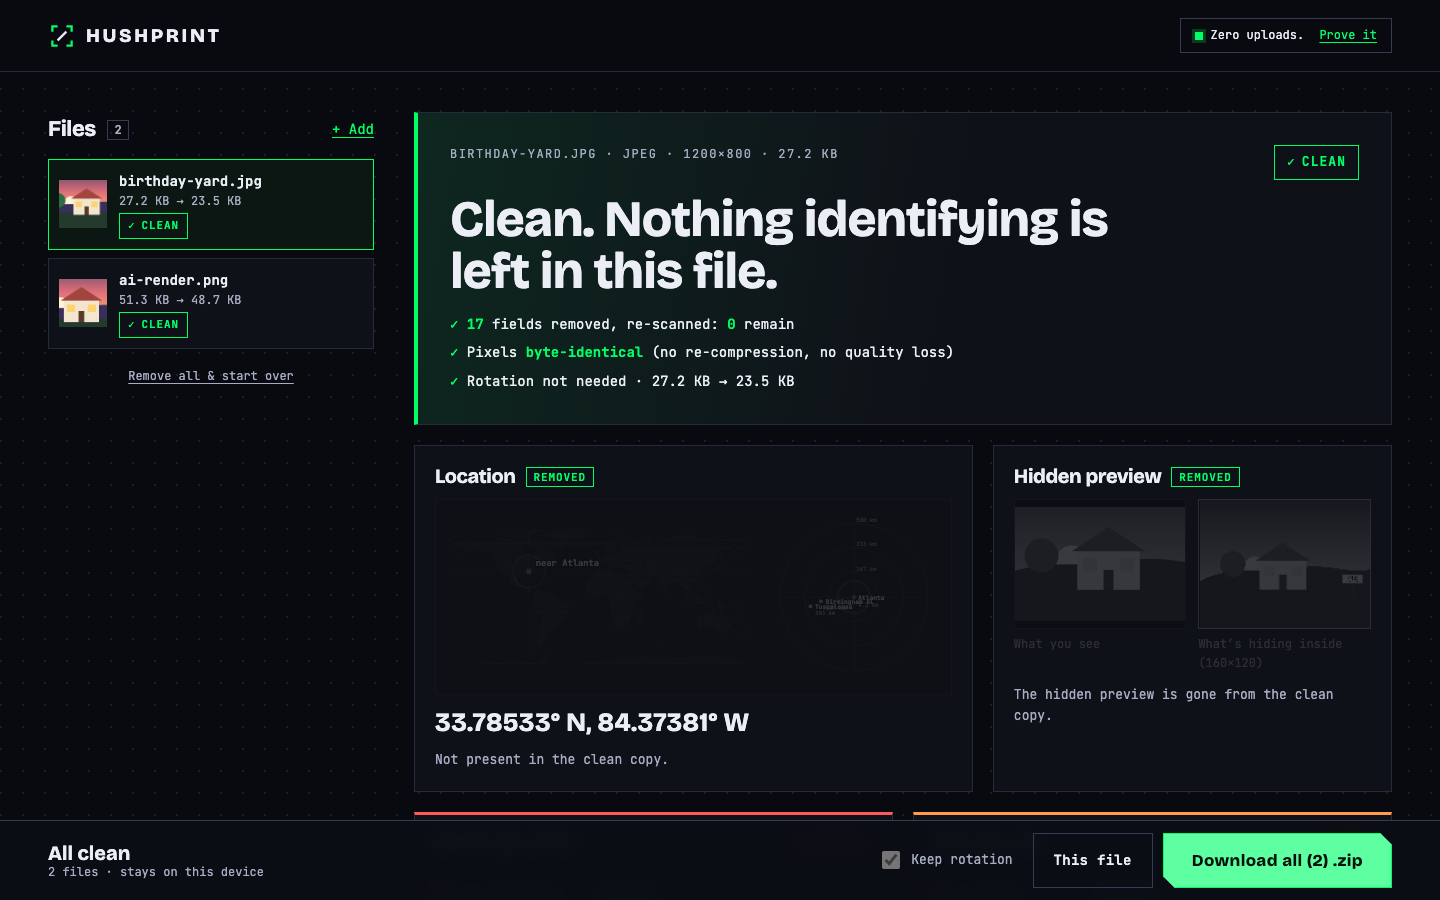
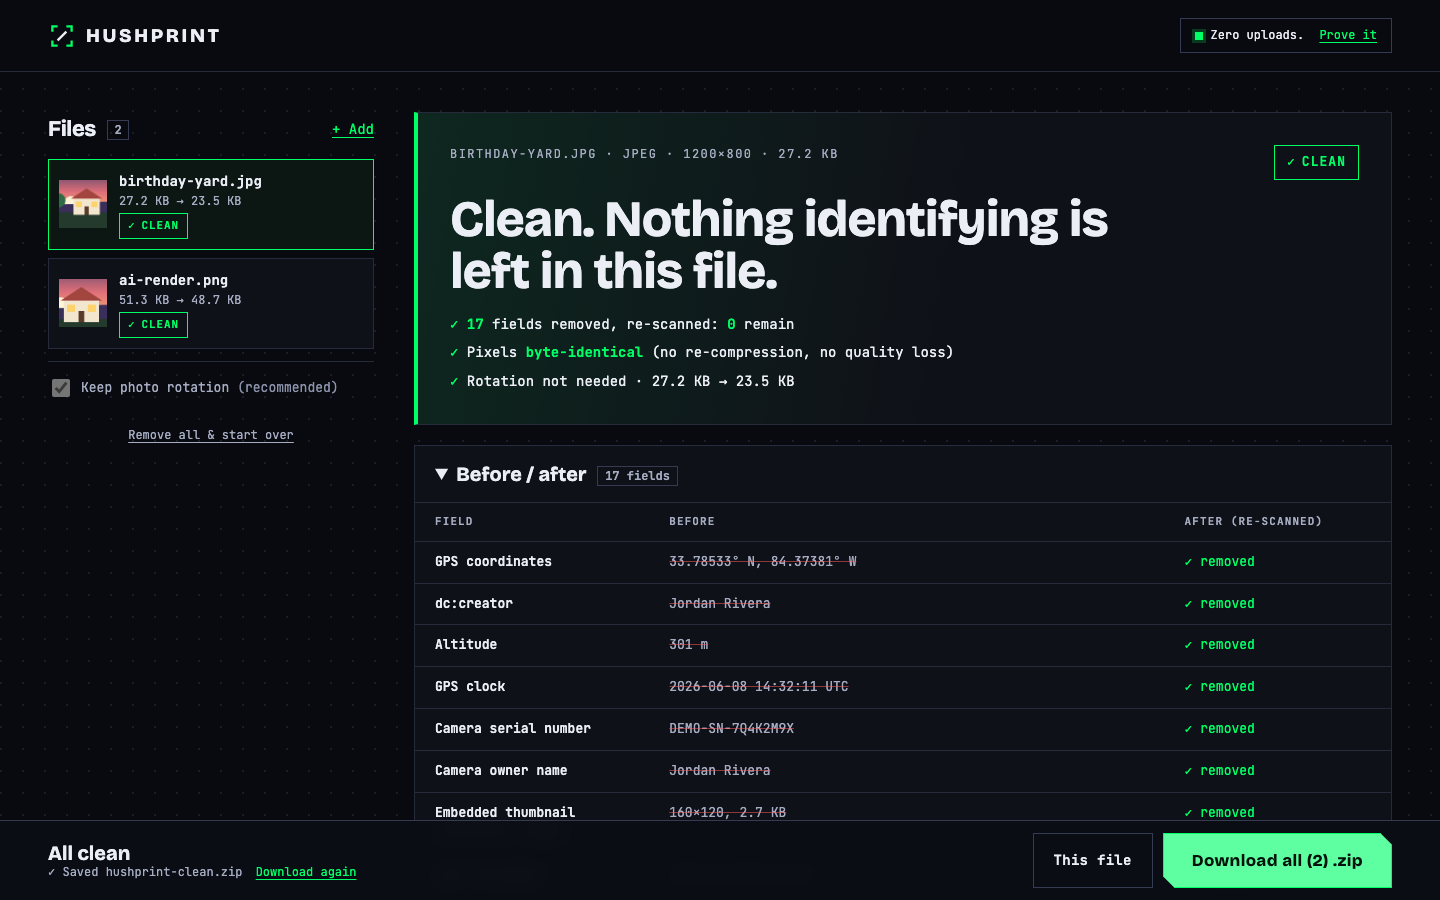
Address critic: fold cleaned state, saved status, mobile action bar, contrast, README restructure

diff --git a/src/App.tsx b/src/App.tsx
@@ -28,6 +28,7 @@ export function App() {
   const [drag, setDrag] = useState(false);
   const [proof, setProof] = useState(false);
   const [announce, setAnnounce] = useState('');
+  const [saved, setSaved] = useState<{ name: string; again: () => void }>();
   const input = useRef<HTMLInputElement>(null);
 
   const addFiles = useCallback(async (files: File[]) => {
@@ -62,8 +63,16 @@ export function App() {
   const cur = items.find((i) => i.id === selected) ?? items[0];
   const totalLeaks = ready.reduce((n, i) => n + i.analysis!.findings.filter((f) => f.label !== 'Orientation').length, 0);
 
-  const download = (i: Item) => i.result && saveBlob(new Blob([i.result.bytes as BlobPart], { type: mimeFor(i.analysis!.format) }), cleanName(i.file.name));
-  const downloadAll = (list: Item[]) => saveBlob(zipFiles(list.filter((i) => i.result).map((i) => ({ name: cleanName(i.file.name), bytes: i.result!.bytes }))), 'hushprint-clean.zip');
+  const download = (i: Item) => {
+    if (!i.result) return;
+    const name = cleanName(i.file.name);
+    const go = () => saveBlob(new Blob([i.result!.bytes as BlobPart], { type: mimeFor(i.analysis!.format) }), name);
+    go(); setSaved({ name, again: go });
+  };
+  const downloadAll = (list: Item[]) => {
+    const go = () => saveBlob(zipFiles(list.filter((i) => i.result).map((i) => ({ name: cleanName(i.file.name), bytes: i.result!.bytes }))), 'hushprint-clean.zip');
+    go(); setSaved({ name: 'hushprint-clean.zip', again: go });
+  };
 
   const runClean = async () => {
     setBusy(true);
@@ -92,7 +101,7 @@ export function App() {
           <div className="workspace">
             <aside className="rail" aria-label="Files">
               <div className="rail-head">
-                <h2>Files <span className="count">{items.length}</span></h2>
+                <h2>Files <span className="count">{items.length}</span>{items.length > 1 && <span className="swipe">swipe {'\u2192'}</span>}</h2>
                 <button className="link" onClick={() => input.current?.click()}>+ Add</button>
               </div>
               <ul className="files">
@@ -110,6 +119,9 @@ export function App() {
                   </li>
                 ))}
               </ul>
+              <div className="settings">
+                <label className="check"><input type="checkbox" checked={keepRotation} disabled={allCleaned} onChange={(e) => setKeepRotation(e.target.checked)} /> Keep photo rotation <span className="hint">(recommended)</span></label>
+              </div>
               <button className="link subtle" onClick={reset}>Remove all &amp; start over</button>
             </aside>
             <section className="report" aria-label="Report" key={cur?.id}>
@@ -124,9 +136,10 @@ export function App() {
           <div className="ab-inner">
             <div className="ab-info">
               <strong>{allCleaned ? 'All clean' : `${totalLeaks} leak${totalLeaks === 1 ? '' : 's'} found`}</strong>
-              <span>{ready.length} file{ready.length === 1 ? '' : 's'} {'·'} stays on this device</span>
+{allCleaned && saved
+                ? <span className="saved"><span aria-hidden="true">{'\u2713'}</span> Saved<span className="sname"> {saved.name}</span> <button className="link inline" onClick={saved.again}>Download again</button></span>
+                : <span>{ready.length} file{ready.length === 1 ? '' : 's'} stays on this device</span>}
             </div>
-            <label className="check"><input type="checkbox" checked={keepRotation} disabled={allCleaned} onChange={(e) => setKeepRotation(e.target.checked)} /> Keep rotation</label>
             {allCleaned ? (
               <div className="ab-btns">
                 {cur?.result && ready.length > 1 && <button className="btn ghost" onClick={() => download(cur)}>This file</button>}
@@ -203,9 +216,12 @@ function Empty({ onPick, onSample }: { onPick: () => void; onSample: () => void 
 
 function Report({ item }: { item: Item }) {
   const a = item.analysis;
+  const done = !!item.result;
+  // play the scrub animation, then fold the per-category detail away so the clean state stays short
+  const [folded, setFolded] = useState(done);
+  useEffect(() => { if (!done) return; const t = setTimeout(() => setFolded(true), 1900); return () => clearTimeout(t); }, [done]);
   if (item.error) return <div className="verdict sev-bg-high"><p className="eyebrow">{item.file.name}</p><h2>We couldn&rsquo;t scan this file.</h2><p className="lede">{item.error}</p></div>;
   if (!a) return <div className="verdict"><p className="eyebrow">{item.file.name}</p><h2>Scanning&hellip;</h2></div>;
-  const done = !!item.result;
   const leaks = a.findings.filter((f) => f.label !== 'Orientation');
   const counts = (['critical', 'high', 'medium', 'low'] as Severity[]).map((s) => [s, leaks.filter((f) => f.severity === s).length] as const).filter(([, n]) => n);
   const groups = (Object.keys(CATEGORY_TITLE) as Category[])
@@ -228,7 +244,7 @@ function Report({ item }: { item: Item }) {
         {a.warnings.length > 0 && <p className="warn">{a.warnings.join(' ')}</p>}
       </div>
 
-      {(a.gps || a.thumbnail) && (
+      {!folded && (a.gps || a.thumbnail) && (
         <div className="panels">
           {a.gps && (
             <div className={`panel map-panel${done ? ' removed' : ''}`}>
@@ -254,7 +270,7 @@ function Report({ item }: { item: Item }) {
         </div>
       )}
 
-      <div className="cards">
+      <div className="cards" hidden={folded}>
         {groups.length === 0 && <p className="nothing">No metadata fields found. This image is already quiet.</p>}
         {groups.map(({ cat, list }) => {
           const top = list.reduce<Severity>((m, f) => (RANK[f.severity] > RANK[m] ? f.severity : m), 'info');

diff --git a/src/styles.css b/src/styles.css
@@ -126,7 +126,7 @@ main { flex: 1; width: 100%; max-width: 1440px; margin: 0 auto; padding: clamp(2
 .panel h3 { font-size: 20px; display: flex; gap: 10px; align-items: center; }
 .tag-clean { font: 600 11px var(--mono); text-transform: uppercase; letter-spacing: 0.08em; color: var(--accent); border: 1px solid var(--accent); padding: 2px 7px; }
 .map-wrap { display: grid; grid-template-columns: minmax(0, 1fr) 170px; gap: 16px; align-items: center; background: #0a0c12; border: 1px solid var(--line); padding: 12px; }
-.panel.removed .map-wrap, .panel.removed .compare { opacity: 0.18; filter: grayscale(1); transition: opacity 600ms ease-out 200ms, filter 600ms ease-out 200ms; }
+.panel.removed .worldmap, .panel.removed .radar, .panel.removed .compare img { opacity: 0.2; filter: grayscale(1); transition: opacity 600ms ease-out 200ms, filter 600ms ease-out 200ms; }
 .coord { margin: 0; font: 700 clamp(18px, 2.2vw, 26px)/1.2 var(--display); }
 .sub { margin: 0; color: var(--muted); font-size: 13px; }
 .compare { display: grid; grid-template-columns: 1fr 1fr; gap: 12px; }
@@ -146,20 +146,29 @@ main { flex: 1; width: 100%; max-width: 1440px; margin: 0 auto; padding: clamp(2
 .row dt { display: flex; align-items: baseline; color: var(--muted); font-size: 12px; text-transform: uppercase; letter-spacing: 0.06em; }
 .row dt .dotsev { transform: translateY(-1px); }
 .row dd { margin: 0; min-width: 0; display: flex; flex-direction: column; gap: 4px; }
-.val { position: relative; display: inline-block; align-self: flex-start; max-width: 100%; font-weight: 600; font-size: 14px; overflow-wrap: anywhere; }
-.gone { position: absolute; left: 0; top: 0; opacity: 0; color: var(--accent); font-weight: 400; }
+.val { position: relative; display: inline-block; min-width: 8ch; align-self: flex-start; max-width: 100%; font-weight: 600; font-size: 14px; overflow-wrap: anywhere; }
+.gone { position: absolute; left: 0; top: 0; opacity: 0; white-space: nowrap; color: var(--accent); font-weight: 400; }
 .why { color: var(--muted); font-size: 12px; line-height: 1.5; }
-.src { color: #7f87a0; border: 1px solid var(--line); padding: 0 5px; margin-left: 4px; font-size: 11px; white-space: nowrap; }
+.src { color: #a6adc2; border: 1px solid var(--line); padding: 0 5px; margin-left: 4px; font-size: 11px; white-space: nowrap; }
 
 /* scrub: a green bar sweeps across each value, then the value is replaced by "removed" */
 .scrubbed .val::after { content: ''; position: absolute; inset: -1px -4px; background: var(--accent); transform: scaleX(0); transform-origin: left; animation: sweep 520ms cubic-bezier(0.65, 0, 0.35, 1) calc(var(--i) * 60ms) both; }
 .scrubbed .txt { animation: fadeout 1ms linear calc(var(--i) * 60ms + 260ms) forwards; }
 .scrubbed .gone { animation: fadein 1ms linear calc(var(--i) * 60ms + 260ms) forwards; }
-.scrubbed .why { opacity: 0.55; transition: opacity 500ms ease-out; }
+.scrubbed .why { opacity: 0.8; }
 @keyframes sweep { 0% { transform: scaleX(0); transform-origin: left; } 50% { transform: scaleX(1); transform-origin: left; } 50.1% { transform: scaleX(1); transform-origin: right; } 100% { transform: scaleX(0); transform-origin: right; } }
 @keyframes fadeout { to { opacity: 0; } } @keyframes fadein { to { opacity: 1; } }
 @keyframes rise { from { opacity: 0; transform: translateY(8px); } to { opacity: 1; transform: none; } }
 .nothing { padding: 24px; border: 1px solid var(--line); background: var(--panel); margin: 0; }
+
+/* status + settings */
+.saved { color: var(--accent); }
+.link.inline { padding: 0 0 0 6px; min-height: 0; font-size: inherit; }
+.settings { border-top: 1px solid var(--line); padding-top: 6px; }
+.settings .check { min-height: 40px; }
+.hint { color: #8b93ab; }
+.swipe { display: none; }
+.cards[hidden] { display: none; }
 
 /* diff table */
 .diff { border: 1px solid var(--line); background: var(--panel); }
@@ -204,7 +213,9 @@ code, .csp { font-family: var(--mono); } code { color: var(--accent); }
   .specimen { margin-top: 0; }
   .rail { position: static; }
   .files { flex-direction: row; overflow-x: auto; padding-bottom: 6px; scroll-snap-type: x proximity; }
-  .files li { flex: 0 0 min(78vw, 280px); scroll-snap-align: start; }
+  .files li { flex: 0 0 min(72vw, 270px); scroll-snap-align: start; }
+  .files { -webkit-mask-image: linear-gradient(to right, #000 calc(100% - 36px), transparent); mask-image: linear-gradient(to right, #000 calc(100% - 36px), transparent); }
+  .swipe { display: inline; font: 400 12px var(--mono); color: var(--muted); margin-left: 10px; }
   .cards { columns: 1; }
   .map-wrap { grid-template-columns: minmax(0, 1fr); }
   .radar-wrap { max-width: 220px; margin: 0 auto; width: 100%; }
@@ -212,12 +223,13 @@ code, .csp { font-family: var(--mono); } code { color: var(--accent); }
 @media (max-width: 600px) {
   body { font-size: 13.5px; }
   .pill-long { display: none; }
-  .ab-inner { flex-wrap: wrap; gap: 8px 12px; }
-  .ab-info { flex: 1; }
-  .check { order: 3; flex-basis: 100%; min-height: 32px; }
-  .ab-inner > .btn, .ab-btns { order: 2; }
-  .ab-btns .ghost { display: none; }
-  .btn.primary { padding: 12px 18px; }
+  .ab-inner { gap: 12px; padding-top: 8px; padding-bottom: 8px; }
+  .ab-info { flex: 1; min-width: 0; }
+  .ab-info strong { font-size: 17px; }
+  .ab-info span { font-size: 11px; }
+  .ab-btns .ghost, .sname { display: none; }
+  .btn { min-height: 44px; }
+  .btn.primary { padding: 10px 16px; font-size: 15px; }
   .row { grid-template-columns: minmax(0, 1fr); gap: 2px; }
   .compare { grid-template-columns: 1fr; }
   .hero-actions .btn { flex: 1; }

diff --git a/README.md b/README.md
@@ -2,16 +2,19 @@
 
 **Your photos know where you live. Hushprint shows you what they're saying, then makes them hush.**
 
-Drop a photo. See the exact GPS spot, phone model, serial number, timestamp and hidden thumbnail inside it. Wipe all of it in one tap, and prove it worked. Everything runs in your browser. Nothing is uploaded, and the page is not even *allowed* to make a network request.
-
-> **Repo description:** See exactly what hidden data your photos leak (GPS, device serials, hidden thumbnails), then strip it. 100% in-browser, zero uploads, hand-written JPEG/PNG/EXIF/XMP engine.
-> **Topics:** `privacy` `exif` `metadata` `gps` `photo-privacy` `exif-remover` `metadata-stripper` `jpeg` `png` `xmp` `client-side` `local-first` `csp` `typescript` `react` `vite`
-
 | What's leaking | After "Clean & download" |
 |---|---|
 | ![Report with GPS findings](docs/desktop-loaded.png) | ![Verified clean](docs/desktop-cleaned.png) |
 
-Mobile-first: [empty](docs/mobile-empty.png) / [report](docs/mobile-loaded.png) / [cleaned](docs/mobile-cleaned.png).
+**Drop** a photo. **See** the GPS spot, phone, serial number and hidden thumbnail inside it. **Clean** it in one tap, and check the proof. It all happens in your browser: nothing is uploaded, and the page is not even allowed to make a network request.
+
+```bash
+npm install
+npm run dev     # then open http://localhost:5173 and click "Try a sample with GPS"
+npm test        # 25 tests
+```
+
+Mobile views: [empty](docs/mobile-empty.png), [report](docs/mobile-loaded.png), [cleaned](docs/mobile-cleaned.png).
 
 ## Who it's for
 
@@ -31,6 +34,9 @@ Each finding comes with a severity (critical, high, medium, low), a plain-Englis
 
 All of it is hand-written TypeScript in [`src/engine`](src/engine), with no parsing libraries.
 
+<details>
+<summary>Engine internals (for the curious)</summary>
+
 | Piece | What it does |
 |---|---|
 | `jpeg.ts` | Marker-level walker. Handles byte-stuffing, RST markers, progressive scans, EOI. Reads APP1 EXIF, XMP, APP13 IPTC, COM. Rebuilds the file keeping only what is needed to display it. |
@@ -38,6 +44,8 @@ All of it is hand-written TypeScript in [`src/engine`](src/engine), with no pars
 | `png.ts` | Chunk parser with CRC checks. Reads tEXt/zTXt/iTXt/eXIf/tIME. Keeps only chunks that affect rendering (incl. APNG), drops everything else and anything after IEND. |
 | `analyze.ts` | Turns raw tags into findings, severities and the plain-English risk summary. Runs strip, then **re-parses the output** to verify. |
 | `zip.ts` | Tiny ZIP writer for "download all". |
+
+</details>
 
 **Stripping is lossless.** The pixel stream is never decoded or re-compressed, so there is no quality loss. A CRC over the pixel data before and after proves it (`Pixels byte-identical` in the UI).
 
@@ -64,19 +72,16 @@ All of it is hand-written TypeScript in [`src/engine`](src/engine), with no pars
 - Nearest-city distances use a small built-in list of ~70 cities, not a full gazetteer.
 - Not a forensic guarantee against techniques outside the file itself (sensor noise fingerprints, filename, filesystem timestamps).
 
-## Run it
+## All commands
 
 ```bash
-npm install
-npm run dev          # http://localhost:5173 (no CSP in dev; it is injected in production builds)
-npm test             # 25 tests: parsers, strippers, round-trips, fuzzing, zip
-npm run build        # typecheck + production build into dist/
-npm run preview      # serve the build with the strict CSP
+npm run dev       # dev server (no CSP in dev; it is injected in production builds)
+npm test          # parsers, strippers, round trips, fuzzing, zip
+npm run build     # typecheck + production build into dist/
+npm run preview   # serve the build with the strict CSP
 ```
 
-Click **Try a sample with GPS** for a planted fake photo (a crop whose hidden thumbnail still shows the mailbox) and a PNG with an AI prompt and leftover bytes. Fixtures are generated in code; no copyrighted images.
-
-Screenshots: `npm run build && npx vite preview --port 4173` then `PLAYWRIGHT_PATH=... node scripts/screenshots.mjs`.
+Fixtures are generated in code; no copyrighted images. Screenshots: `npm run build && npx vite preview --port 4173`, then `PLAYWRIGHT_PATH=... node scripts/screenshots.mjs`.
 
 ## Tests
 
@@ -98,3 +103,9 @@ Screenshots: `npm run build && npx vite preview --port 4173` then `PLAYWRIGHT_PA
 ## Stack
 
 Vite, React, TypeScript, Vitest. Fonts (Bricolage Grotesque, JetBrains Mono) are bundled locally.
+
+---
+
+**Repo description:** See exactly what hidden data your photos leak (GPS, device serials, hidden thumbnails), then strip it. 100% in-browser, zero uploads, hand-written JPEG/PNG/EXIF/XMP engine.
+
+**Topics:** `privacy` `exif` `metadata` `gps` `photo-privacy` `exif-remover` `metadata-stripper` `jpeg` `png` `xmp` `client-side` `local-first` `csp` `typescript` `react` `vite`
